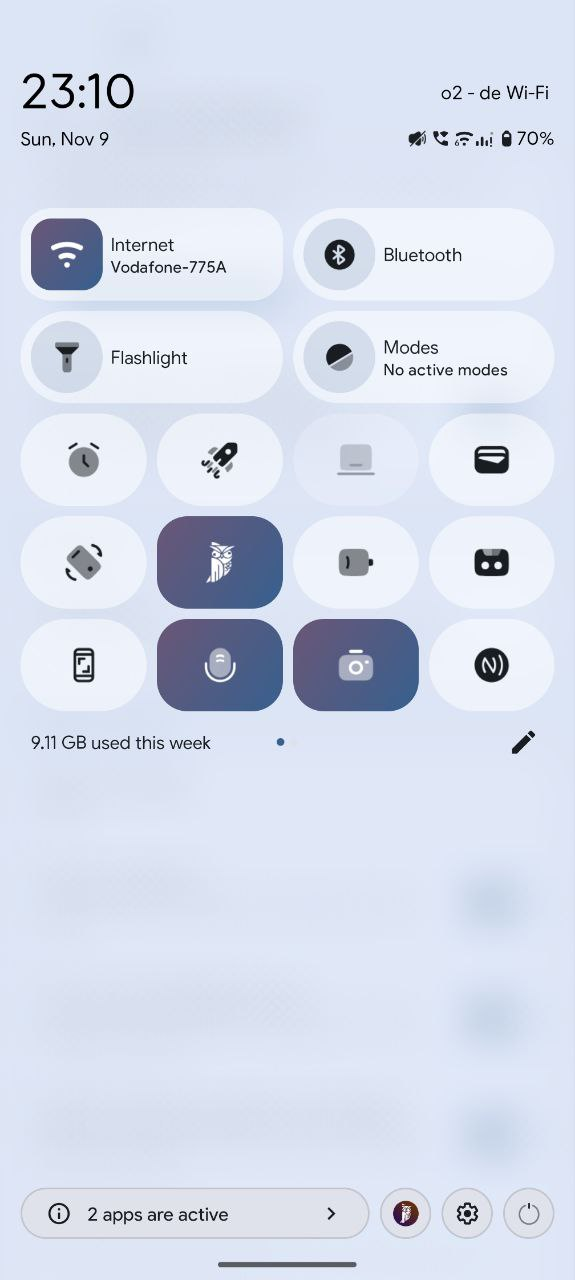
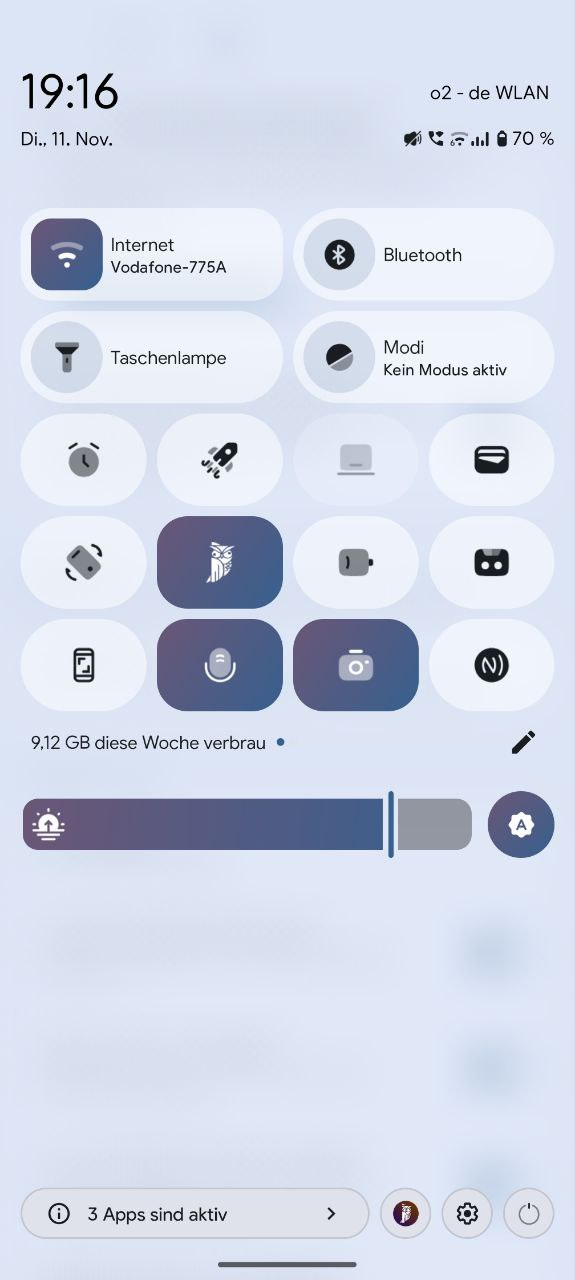
DerpSite: Update Home page feature description for clarity and replace image with a new version

diff --git a/src/pages/Home.jsx b/src/pages/Home.jsx
@@ -20,7 +20,7 @@ const featureShowcase = [
    {
       title: 'Gradient QS Tiles',
       subtitle: 'Dynamic color theming',
-      description: 'Blend dual-tone gradients across quick settings tiles with styles crafted by the DerpFest design team.',
+         description: 'Blend dual-tone gradients across quick settings tiles and the brightness slider for a unified look.',
       accent: 'from-[#33bbff] to-[#1de099]',
       image: './img/5226475742240116573.jpg',
       imageAlt: 'DerpFest gradient quick settings tiles',
